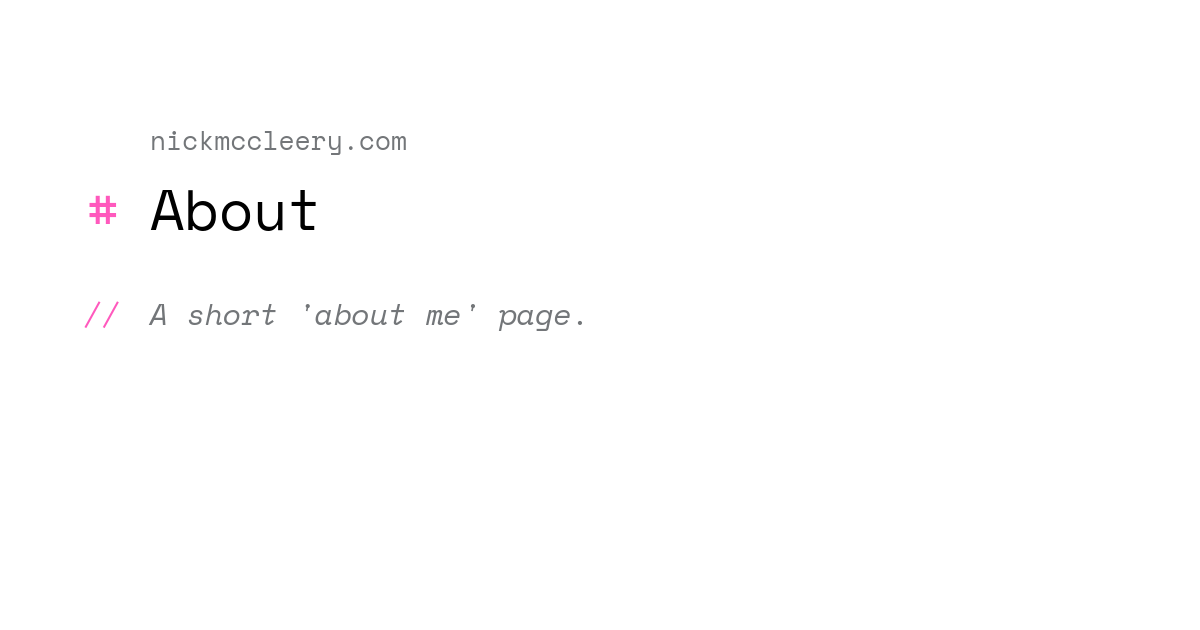
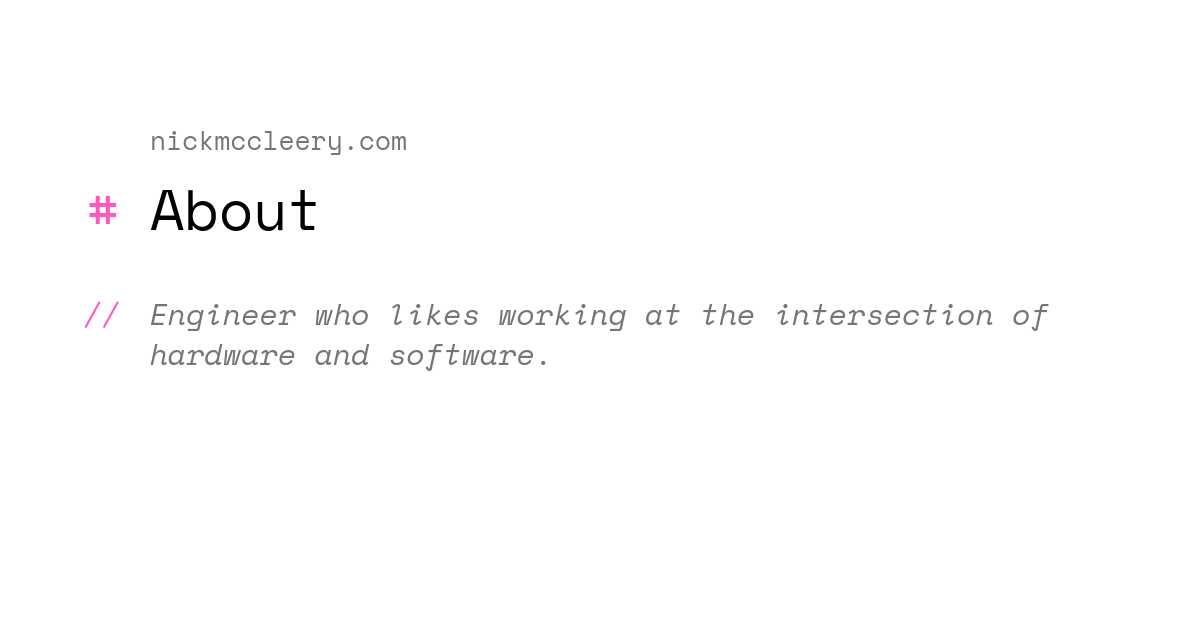
Cleanup about OG.

Changed region(s): [[0.1233, 0.4825, 0.8942, 0.6032]]

diff --git a/content/about.md b/content/about.md
@@ -1,11 +1,9 @@
 ---
 title: About
-description: A short 'about me' page.
+description: Engineer who likes working at the intersection of hardware and software.
 date: 2023-09-03
 images: [/images/og/about.png]
 ---
-
-Engineer who likes working at the intersection of hardware and software.
 
 ## Professional Interests
 
